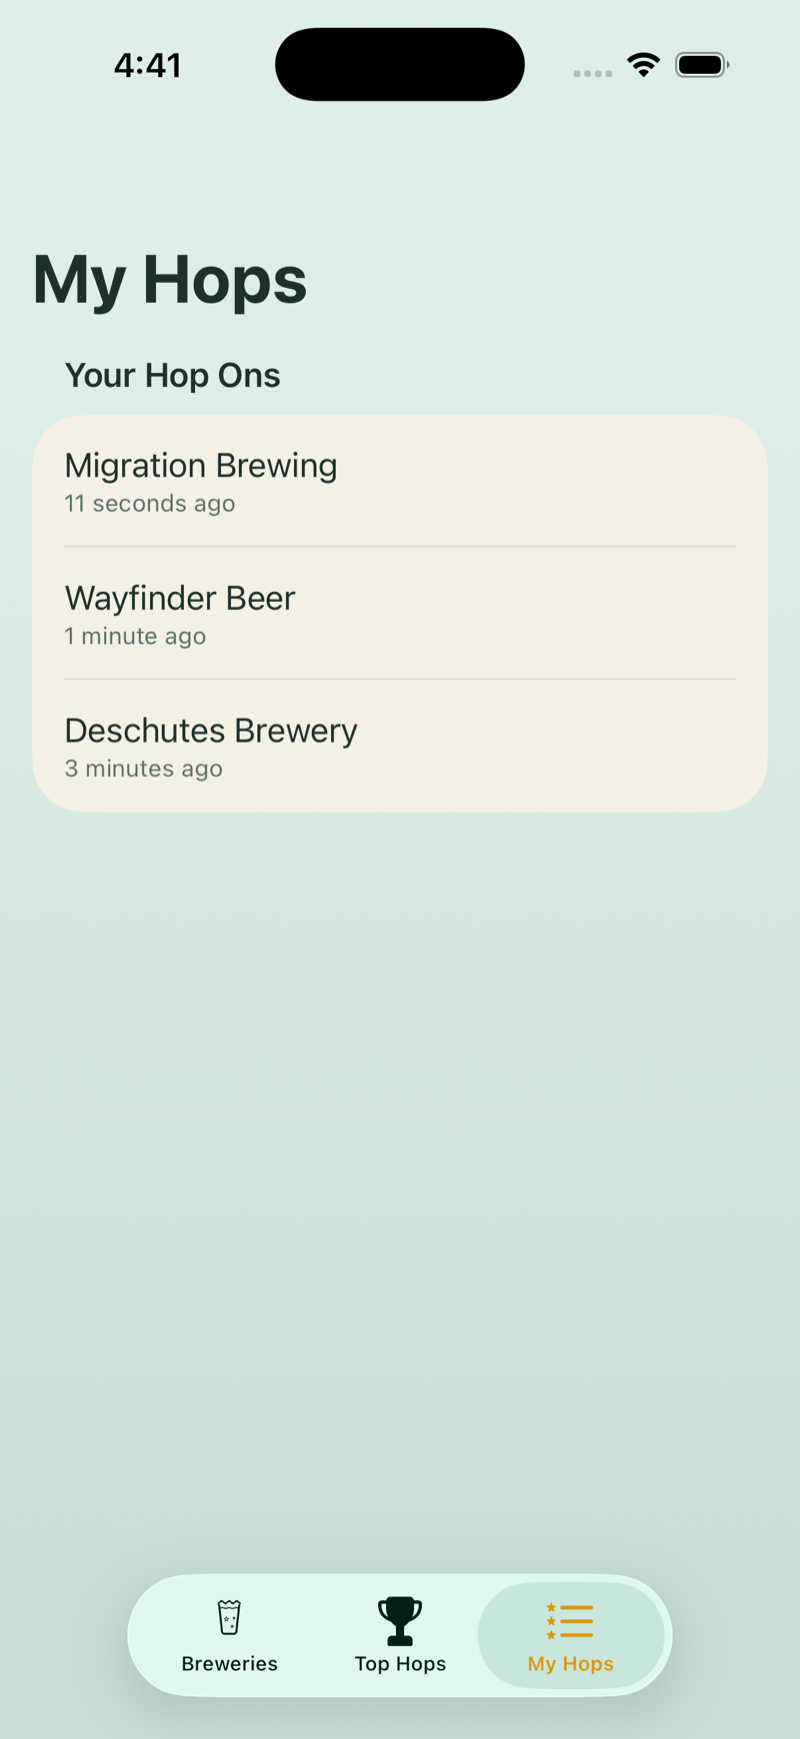
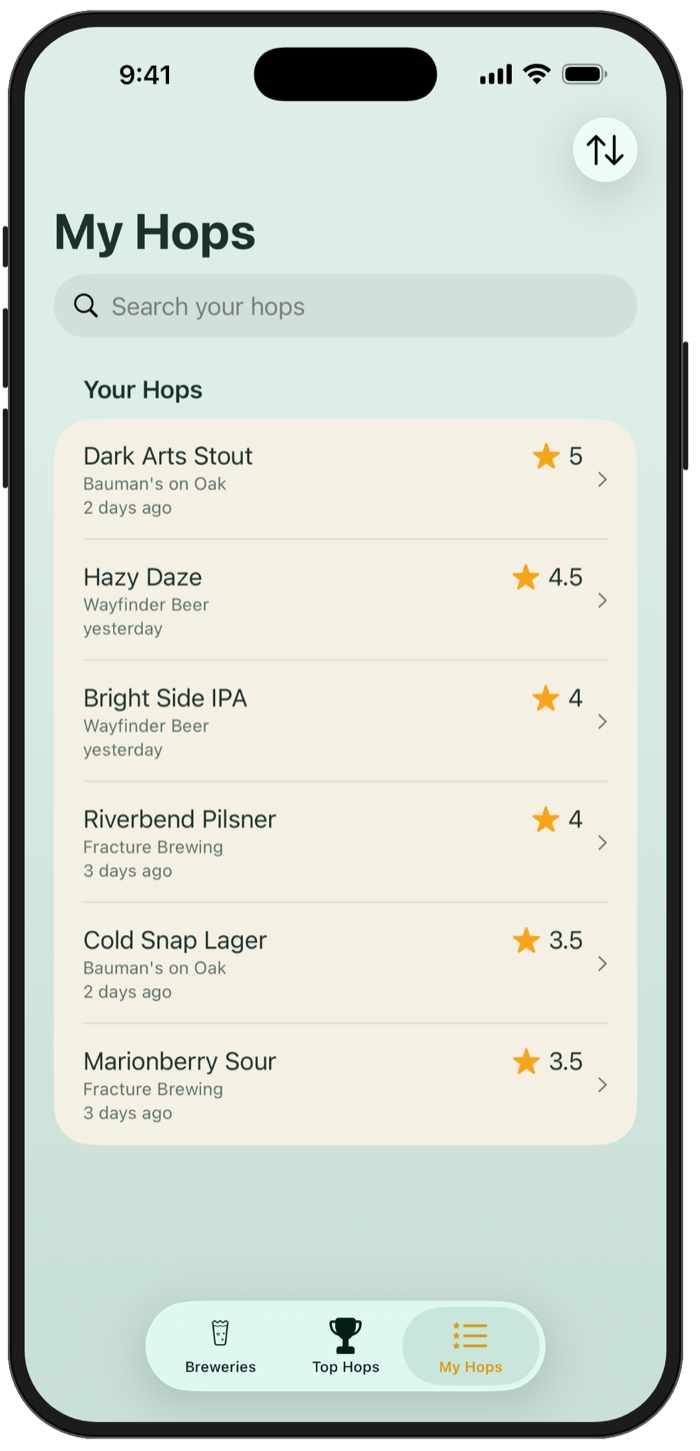
feat: replace HoppedUp placeholders with real device-framed screenshots (#3)
The four Simulator placeholders were flat screenshots of an in-development
build. These are captures of the shipping app on an iPhone 17 Pro Max,
wrapped in a device frame to match the Current Tomato and One Third Umpire
pages. The same unframed captures go to App Store Connect.

Adds the three screens the page never showed — a brewery's community board,
the Apple Intelligence summary, and Top Hops — and gives the community
features their own section rather than burying them.

The staged breweries are real Apple Maps results in Portland, OR; the
ratings, counts and summaries are sample data, which the hero note now
says instead of the old in-development-build caveat.

diff --git a/hoppedup/index.html b/hoppedup/index.html
@@ -99,10 +99,11 @@
 
   /* Screenshots */
   .screens { display: grid; grid-template-columns: repeat(4, 1fr); gap: 32px; text-align: center; }
+  .screens.three-up { grid-template-columns: repeat(3, 1fr); gap: 40px; }
+  .screens.three-up img { max-width: 220px; }
   .screens img {
     max-width: 190px;
     width: 100%;
-    border-radius: 18px;
     filter: drop-shadow(0 10px 30px rgba(0,0,0,0.12));
   }
   .screens .caption {
@@ -154,7 +155,7 @@
     .hero h1 { font-size: 40px; }
     .hero .tagline { font-size: 18px; }
     .features { grid-template-columns: 1fr; }
-    .screens { grid-template-columns: repeat(2, 1fr); gap: 24px; }
+    .screens, .screens.three-up { grid-template-columns: repeat(2, 1fr); gap: 24px; }
     .section-title { font-size: 26px; }
     .cta h2 { font-size: 28px; }
   }
@@ -177,9 +178,9 @@
           <div class="caption-sub">Breweries closest first</div>
         </div>
         <div>
-          <img src="./img/map.png" alt="Breweries on a map">
-          <div class="caption">Map</div>
-          <div class="caption-sub">See what's around you</div>
+          <img src="./img/brewery.png" alt="A brewery's community board">
+          <div class="caption">Their board</div>
+          <div class="caption-sub">What everyone poured</div>
         </div>
         <div>
           <img src="./img/rate.png" alt="Rating a beer">
@@ -195,7 +196,7 @@
     </div>
 
     <span class="soon">Coming soon to the App Store</span>
-    <p class="soon-note">Screens shown are from an in-development build.</p>
+    <p class="soon-note">Community ratings and summaries shown are sample data.</p>
   </div>
 
   <!-- Features -->
@@ -219,6 +220,32 @@
           <div class="icon">🔒</div>
           <h3>Anonymous by design</h3>
           <p>No accounts, no profiles, no usernames. Your history stays on your device, and the ratings shared with the community are never tied to you.</p>
+        </div>
+      </div>
+    </div>
+  </section>
+
+  <!-- Community -->
+  <section style="background: var(--foam); padding: 72px 20px;">
+    <div class="container">
+      <h2 class="section-title">Everyone's two cents, nobody's name</h2>
+      <p class="section-sub">Every rating is anonymous, so the numbers are the whole story. Notes are never shown to anyone — they only ever feed a summary your iPhone writes on-device.</p>
+
+      <div class="screens three-up">
+        <div>
+          <img src="./img/tophops.png" alt="Best rated beers near you">
+          <div class="caption">Top Hops</div>
+          <div class="caption-sub">Best rated near you</div>
+        </div>
+        <div>
+          <img src="./img/beer.png" alt="A beer's community rating and summary">
+          <div class="caption">The verdict</div>
+          <div class="caption-sub">Summed up by Apple Intelligence</div>
+        </div>
+        <div>
+          <img src="./img/map.png" alt="Breweries on a map">
+          <div class="caption">Map</div>
+          <div class="caption-sub">See what's around you</div>
         </div>
       </div>
     </div>
